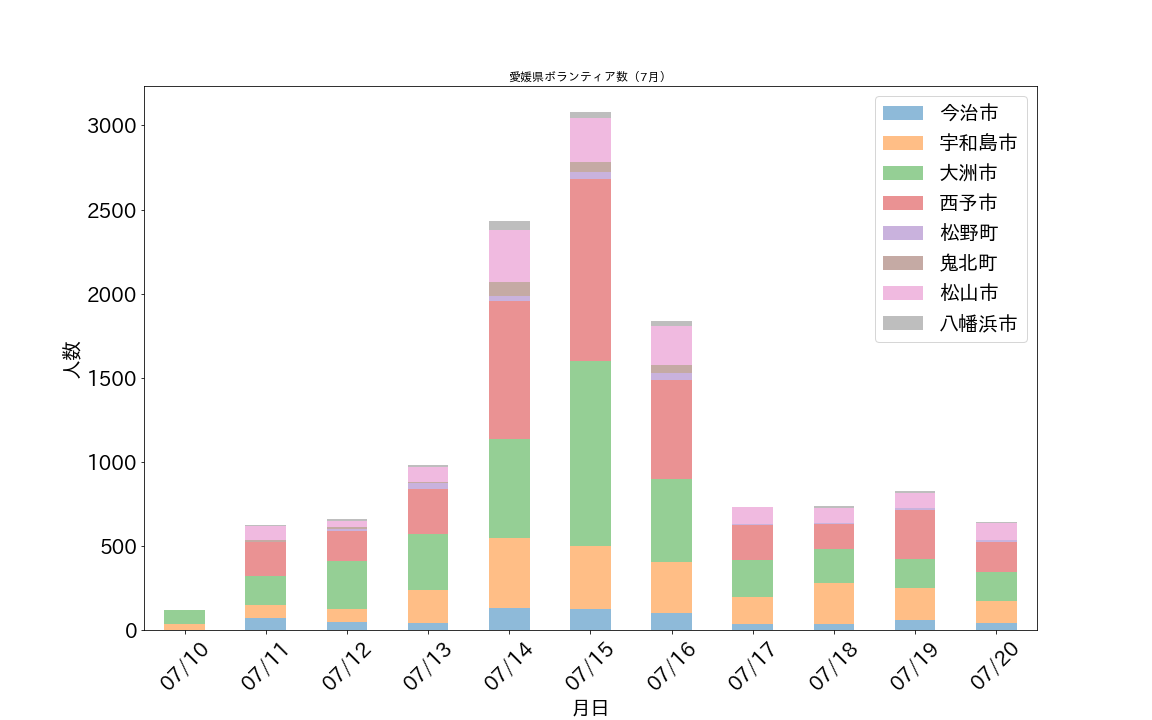
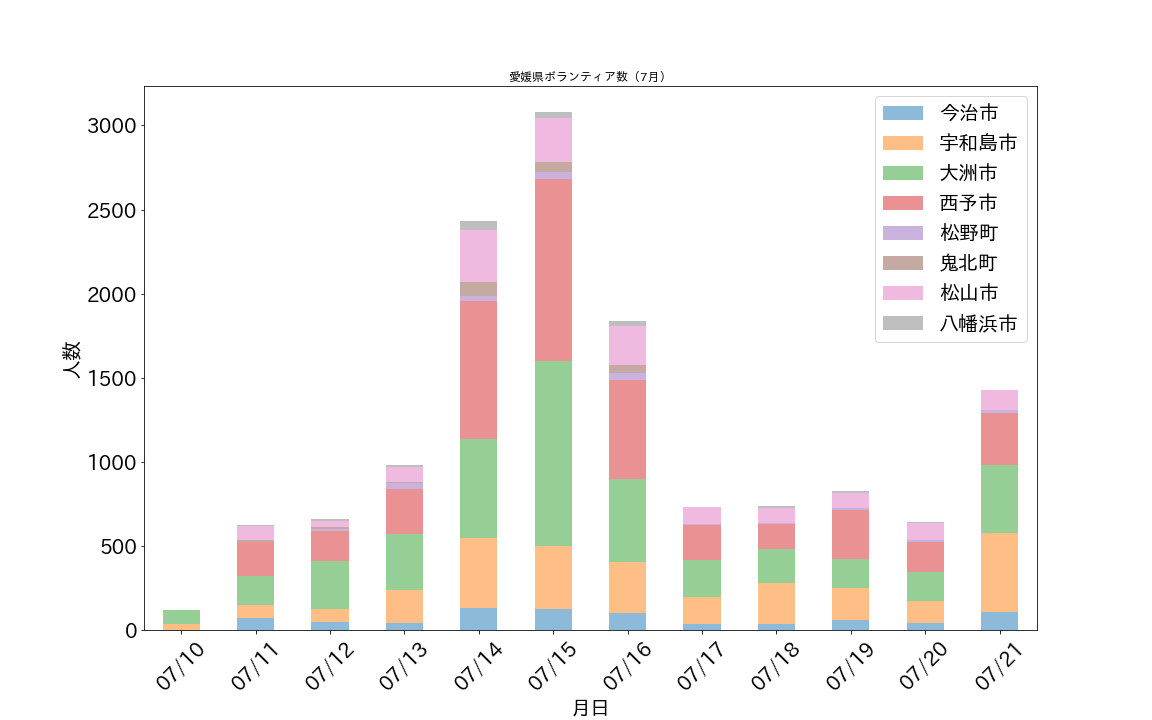
7/20分のデータ反映

Changed region(s): [[0.125, 0.1528, 0.9062, 0.9778]]

diff --git a/_pages/volunteer_aggregation.md b/_pages/volunteer_aggregation.md
@@ -1,9 +1,9 @@
 ---
-title: 【愛媛県ボランティア数集計（デイリー・地域別）（7/20版）】
+title: 【愛媛県ボランティア数集計（デイリー・地域別）07/21版）】
 description: 松山市社協、八幡浜市社協、愛媛災害支援センターが公開しているデータを元に、ボランティア数のグラフを作成・公開しています。
 permalink: /volunteer/aggregation/
 date: 2018-07-18 05:59:06 +0900
-last_modified_at: 2018-07-20 18:45:39 +0900
+last_modified_at: 2018-07-21 20:30:02 +0900
 sidebar:
   nav: volunteer_menu
 
@@ -15,28 +15,30 @@ Google SpreadSheetによるデータは[こちら](https://docs.google.com/spre
 
 ## 傾向
 
-宇和島と西予は大幅に人数が減りました（50名以上）宇和島は先日県外へと対象を広げる発表をして、前日の7/19には80名以上の増がありましたがまた徐々に人数が減ってきています。
+土曜にということもあり、宇和島、大洲、西予ともに300名以上のボランティアの方がお越しいただきました。
+今治、松山も100名を超えるボランティアの方に集まっていただけたようです。
 
-逆に松山市がボランティア数が増えています。松山市は特別災害は道路が開通された結果として、新しい支援ニーズが生まれているため、
+復興作業はまだまだ続きます。暑にに注意しながら、引き続きボランティアいただける方は各災害ボランティアセンターまでお越しください。
 
 ![愛媛県内ボランティア数（日次）](/assets/images/volunteer_count.png)
 
 [^1]: 八幡浜市の7/10,17の情報は公開されていません。
 
 
-| Date       | 今治市 | 宇和島市 | 大洲市 | 西予市 | 松野町 | 鬼北町 | 松山市 | 八幡浜市 |
-|------------|--------|----------|--------|--------|--------|--------|--------|----------|
-| 2018-07-10 |        |       35 |     82 |        |        |        |        |          |
-| 2018-07-11 |     71 |       76 |    177 |    201 |        |      9 |     85 |        7 |
-| 2018-07-12 |     50 |       74 |    284 |    180 |     13 |     12 |     38 |        8 |
-| 2018-07-13 |     41 |      198 |    333 |    267 |     33 |      9 |     87 |       15 |
-| 2018-07-14 |    131 |      415 |    587 |    823 |     27 |     88 |    309 |       50 |
-| 2018-07-15 |    126 |      374 |   1099 |   1081 |     44 |     56 |    262 |       36 |
-| 2018-07-16 |    102 |      305 |    491 |    591 |     37 |     50 |    232 |       29 |
-| 2018-07-17 |     37 |      157 |    222 |    210 |      4 |      3 |    100 |          |
-| 2018-07-18 |     37 |      241 |    205 |    149 |      4 |      0 |     88 |       14 |
-| 2018-07-19 |     58 |      190 |    174 |    294 |      8 |      0 |     89 |       14 |
-| 2018-07-20 |     44 |      128 |    175 |    177 |     10 |      0 |    102 |        5 |
+| 日付   |   今治市 |   宇和島市 |   大洲市 |   西予市 |   松野町 |   鬼北町 |   松山市 |   八幡浜市 |
+|:-------|---------:|-----------:|---------:|---------:|---------:|---------:|---------:|-----------:|
+| 07/10  |        0 |         35 |       82 |        0 |        0 |        0 |        0 |          0 |
+| 07/11  |       71 |         76 |      177 |      201 |        0 |        9 |       85 |          7 |
+| 07/12  |       50 |         74 |      284 |      180 |       13 |       12 |       38 |          8 |
+| 07/13  |       41 |        198 |      333 |      267 |       33 |        9 |       87 |         15 |
+| 07/14  |      131 |        415 |      587 |      823 |       27 |       88 |      309 |         50 |
+| 07/15  |      126 |        374 |     1099 |     1081 |       44 |       56 |      262 |         36 |
+| 07/16  |      102 |        305 |      491 |      591 |       37 |       50 |      232 |         29 |
+| 07/17  |       37 |        157 |      222 |      210 |        4 |        3 |      100 |          0 |
+| 07/18  |       37 |        241 |      205 |      149 |        4 |        0 |       88 |         14 |
+| 07/19  |       58 |        190 |      174 |      294 |        8 |        0 |       89 |         14 |
+| 07/20  |       44 |        128 |      175 |      177 |       10 |        0 |      102 |          5 |
+| 07/21  |      105 |        470 |      408 |      305 |       21 |        0 |      115 |          0 |
 
 ### 元データ
 
